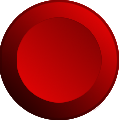
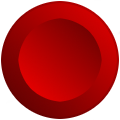
guiはOK

Changed region(s): [[0.0, 0.0, 1.0, 1.0], [0.35, 0.125, 0.85, 0.625], [0.8, 0.625, 0.825, 0.65]]

diff --git a/samples/io-api/templates/index.html b/samples/io-api/templates/index.html
@@ -17,6 +17,13 @@
     .card {
       margin-top: 1.25rem
     }
+    .hekomi {
+      box-shadow:
+        -10px 10px 30px transparent,
+        10px -10px 30px transparent,
+        inset -10px 10px 30px rgba(18, 47, 61, 0.5),
+        inset 10px -10px 30px rgba(248, 253, 255, 0.9);
+    }
   </style>
 </head>
 
@@ -92,10 +99,13 @@
     <div id="divRun" style="display: none;">
       <div class="card">
         <h6 class="card-header">Joycon</h6>
-        <div style="width: 240px; height: 240px; border-radius: 50%; background: slateblue;
-                    background-image: linear-gradient(top , #FF8F5E, #D44E1A);
-                    box-shadow: 0px 5px 10px #000000, 0px 1px 3px rgba(255, 255, 255, 0.8) inset;
-                    margin: 30px;">
+        <div style="background: #cccccc;">
+          <div class="hekomi"
+              style="width: 160px; height: 160px; border-radius: 50%; 
+                      margin: 30px;">
+              <img src="{{ url_for('static', path='images/SlidePadRed.png') }}"
+                   style="position: relative; top:20px; left:20px;">
+          </div>
         </div>
       </div>  
     </div>
